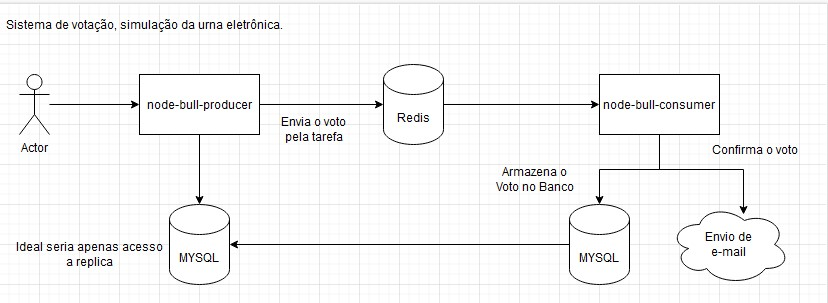
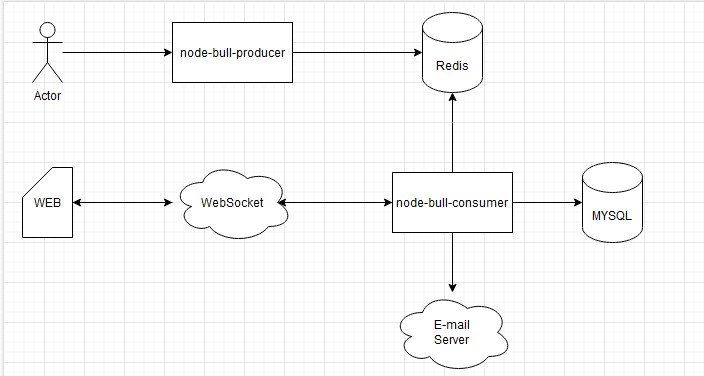
feat: images

diff --git a/aula-1/readme.md b/aula-1/readme.md
@@ -1,9 +1,30 @@
+# Aula 1
+
+## Ementa
+ - Apresentação
+ - Requisitos
+ - Desafio
+
+---
+## Apresentação
+
+O que são serviços de mensageria?
+
+# Requisitos
+- NodeJS <https://nodejs.org/en/download/>
+- Redis <https://www.docker.com/products/docker-desktop/> ou <https://medium.com/dockerbr/instalando-o-redis-em-um-container-docker-no-windows-a49b42988428>
+- MySQL <https://www.docker.com/products/docker-desktop/> ou <https://dev.mysql.com/downloads/installer/>
+- Postman <https://www.postman.com/downloads/>
+- Redis Insight <https://redis.com/redis-enterprise/redis-insight/>
+- Mailtrap <https://mailtrap.io/inboxes>
+- Dbeaver <https://dbeaver.io/download/>
+
 # Desafio
 
 <center>
 
 <h2>Eleições 2022 Fake</h2>
-<img height='200' src='urna.jpg'/>
+<img height='200' src='8.jpg'/>
 <p>Simulação do processo eleitoral</p>
 
 </center>
@@ -18,31 +39,61 @@ Desenahando a aplicação
 - Envio das votações por tarefas
   - Utilizaremos a biblioteca node-bull com o provider Redis para enviar o voto
 - Envio de e-mail confirmando o voto
+- Notificação via Web Socket para atualizar os votos em tempo real aos clientes web.
 
-## Requisitos
-- Node JS
-- Redis
-- MySQL
+## Bull Dashboard
+![imagem](./bull_dash.gif)
+
+## Mail Trap
+![imagem](./email.gif)
+
+## Web Socket
+![imagem](./votos.gif)
+
+## Docker Desktop
+> Containers Rodando
+
+![imagem](./2.jpg)
+
+> Container Redis com a connection sstring
+
+![imagem](./3.jpg)
+
+> Container MYSQL com a connection sstring
+
+![imagem](./4.jpg)
+
+> Página web simples <http://localhost:9001>
+
+![imagem](./5.jpg)
+
+## Dbeaver
+> Devemos criar o database 'elections'
+
+![imagem](./6.jpg)
+
+```
+Para usuários do DBeaver:
+Clique com o botão direito na sua conexão, escolha "Editar Conexão"
+Na tela "Configurações de conexão" (tela principal), clique em "Editar configurações do driver"
+Clique em "Propriedades da conexão"
+Clique com o botão direito na área "propriedades do usuário" e escolha "Adicionar nova propriedade"
+Adicione duas propriedades: "useSSL" e "allowPublicKeyRetrieval"
+Defina seus valores como "false" e "true" clicando duas vezes na coluna "value"
+```
+
+> Redis Insight
+
+![imagem](./7.jpg)
+
+
 
 ## Links Úteis
 
 - <https://app.diagrams.net/#G1WdhUMQIOzgTOYi27Qi4iM0g0yaj59XCA>
 - <https://mailtrap.io/>
 - <https://higher-order-programmer.medium.com/node-js-utilizando-filas-de-tarefas-ass%C3%ADncronas-com-bull-redis-71540f4be6ec>
-
-```
-Para usuários do DBeaver:
-
-Clique com o botão direito na sua conexão, escolha "Editar Conexão"
-
-Na tela "Configurações de conexão" (tela principal), clique em "Editar configurações do driver"
-
-Clique em "Propriedades da conexão"
-
-Clique com o botão direito na área "propriedades do usuário" e escolha "Adicionar nova propriedade"
-
-Adicione duas propriedades: "useSSL" e "allowPublicKeyRetrieval"
-
-Defina seus valores como "false" e "true" clicando duas vezes na coluna "value"
-
-```
+- <https://www.blogdoft.com.br/2021/02/06/o-que-sao-mensageria-eventos-filas-e-topicos/>
+- <https://www.youtube.com/watch?v=U5h6B7eSiAE>
+- <https://www.youtube.com/watch?v=CYWEjcppJg0>
+- <https://www.dinamize.com.br/blog/por-que-voce-deveria-utilizar-mensageria-na-aplicacao/>
